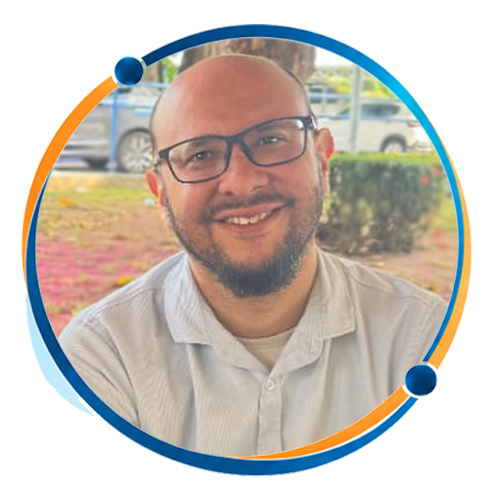
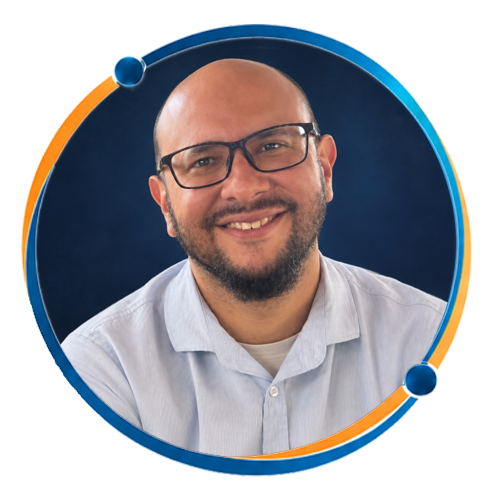
Update Cassio and Marcela speaker photos

diff --git a/programacao.html b/programacao.html
@@ -91,7 +91,7 @@
             <li class="program-item">
               <time class="program-time" datetime="10:00">10:00</time>
               <article class="program-event">
-                <div class="program-event-heading"><span class="program-kind">Atividade</span><h3>Anatomia Radiológica</h3></div>
+                <div class="program-event-heading"><span class="program-kind">Palestra</span><h3>Anatomia Radiológica</h3></div>
                 <div class="program-people">
                   <div class="program-person"><img src="assets/palestrantes/alanna.png" alt="" width="64" height="64" /><span><strong>Alanna Santos</strong><small>Moderador</small></span></div>
                 </div>
